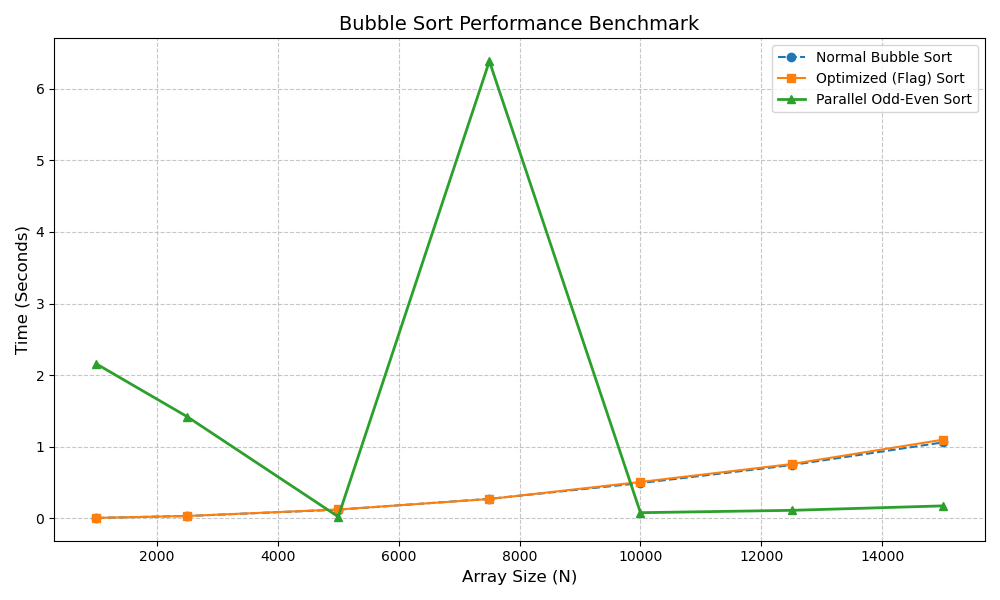
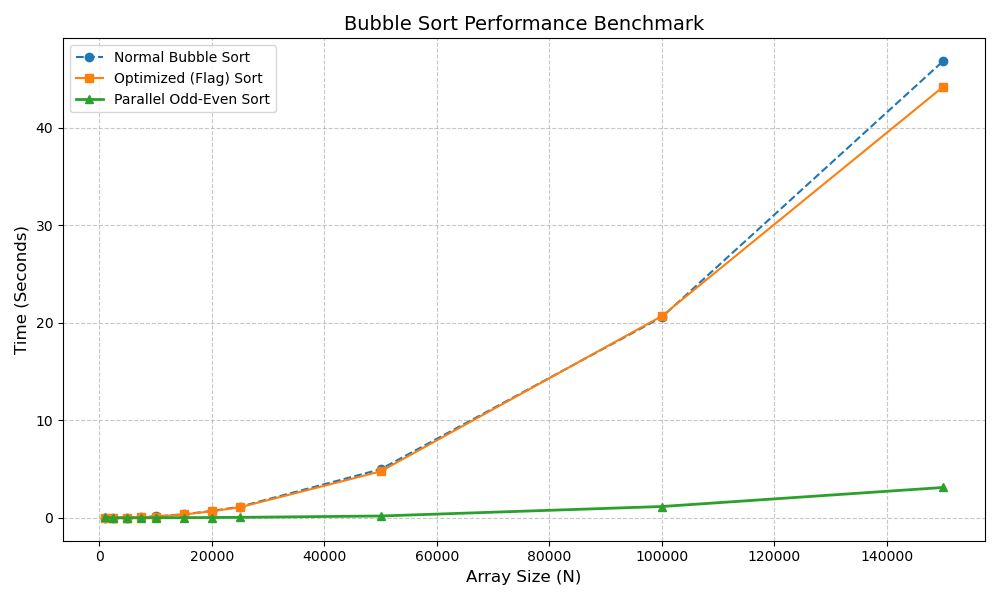
Add files via upload

diff --git a/HPC/A3/Bubble_benchmark.c b/HPC/A3/Bubble_benchmark.c
@@ -1,0 +1,130 @@
+#include <stdio.h>
+#include <stdlib.h>
+#include <stdbool.h>
+#include <string.h>
+#include <omp.h> // Required for OpenMP and Timing
+
+// Helper function to swap two integers
+void swap(int *a, int *b) {
+    int temp = *a;
+    *a = *b;
+    *b = temp;
+}
+
+// 1. Normal Bubble Sort
+void bubbleSortNormal(int *arr, int n) {
+    for (int i = 0; i < n - 1; i++) {
+        for (int j = 0; j < n - i - 1; j++) {
+            if (arr[j] > arr[j + 1]) {
+                swap(&arr[j], &arr[j + 1]);
+            }
+        }
+    }
+}
+
+// 2. Optimized Bubble Sort with "Stop" Flag
+void bubbleSortOptimized(int *arr, int n) {
+    bool stop;
+    for (int i = 0; i < n - 1; i++) {
+        stop = true; // Assume sorted
+        for (int j = 0; j < n - i - 1; j++) {
+            if (arr[j] > arr[j + 1]) {
+                swap(&arr[j], &arr[j + 1]);
+                stop = false; // Swap happened
+            }
+        }
+        if (stop) break; // Stop if array is already sorted
+    }
+}
+
+// 3. Parallel Odd-Even Sort (OpenMP)
+void bubbleSortParallel(int *arr, int n) {
+    int i, j;
+    for (i = 0; i < n; i++) {
+        int first = i % 2;
+        
+        // Parallel region based on your algorithm
+        // Note: added 'n' to shared variables
+        #pragma omp parallel for default(none) shared(arr, n, first) private(j)
+        for (j = first; j < n - 1; j += 2) {
+            if (arr[j] > arr[j + 1]) {
+                swap(&arr[j], &arr[j + 1]);
+            }
+        }
+    }
+}
+
+// Helper to generate random data
+void generateRandomData(int *arr, int n) {
+    for (int i = 0; i < n; i++) {
+        arr[i] = rand() % 10000;
+    }
+}
+
+int main() {
+    // Array sizes to test
+    int sizes[] = {1000, 2500, 5000, 7500, 10000, 15000, 20000, 25000, 50000, 100000, 150000};
+    int num_sizes = sizeof(sizes) / sizeof(sizes[0]);
+
+    // Open file for writing
+    FILE *fp = fopen("benchmark_results.csv", "w");
+    if (fp == NULL) {
+        printf("Error opening file!\n");
+        return 1;
+    }
+    
+    // Write CSV Header
+    fprintf(fp, "Size,Normal,Optimized,Parallel\n");
+    printf("Starting Benchmark...\n");
+
+    for (int s = 0; s < num_sizes; s++) {
+        int N = sizes[s];
+        printf("Testing size: %d...\n", N);
+
+        // Allocate memory
+        int *masterData = (int*)malloc(N * sizeof(int));
+        int *tempData = (int*)malloc(N * sizeof(int));
+
+        // Generate random data once
+        generateRandomData(masterData, N);
+
+        double start, end;
+
+        // --- Benchmark 1: Normal ---
+        // Copy master data to temp to ensure we sort the exact same dataset
+        memcpy(tempData, masterData, N * sizeof(int));
+        
+        start = omp_get_wtime();
+        bubbleSortNormal(tempData, N);
+        end = omp_get_wtime();
+        double timeNormal = end - start;
+
+        // --- Benchmark 2: Optimized ---
+        memcpy(tempData, masterData, N * sizeof(int)); // Reset data
+        
+        start = omp_get_wtime();
+        bubbleSortOptimized(tempData, N);
+        end = omp_get_wtime();
+        double timeOpt = end - start;
+
+        // --- Benchmark 3: Parallel ---
+        memcpy(tempData, masterData, N * sizeof(int)); // Reset data
+        
+        start = omp_get_wtime();
+        bubbleSortParallel(tempData, N);
+        end = omp_get_wtime();
+        double timeParallel = end - start;
+
+        // Write results to file
+        fprintf(fp, "%d,%f,%f,%f\n", N, timeNormal, timeOpt, timeParallel);
+
+        // Free memory for this iteration
+        free(masterData);
+        free(tempData);
+    }
+
+    fclose(fp);
+    printf("Benchmarking complete. Data saved to 'benchmark_results.csv'.\n");
+
+    return 0;
+}
